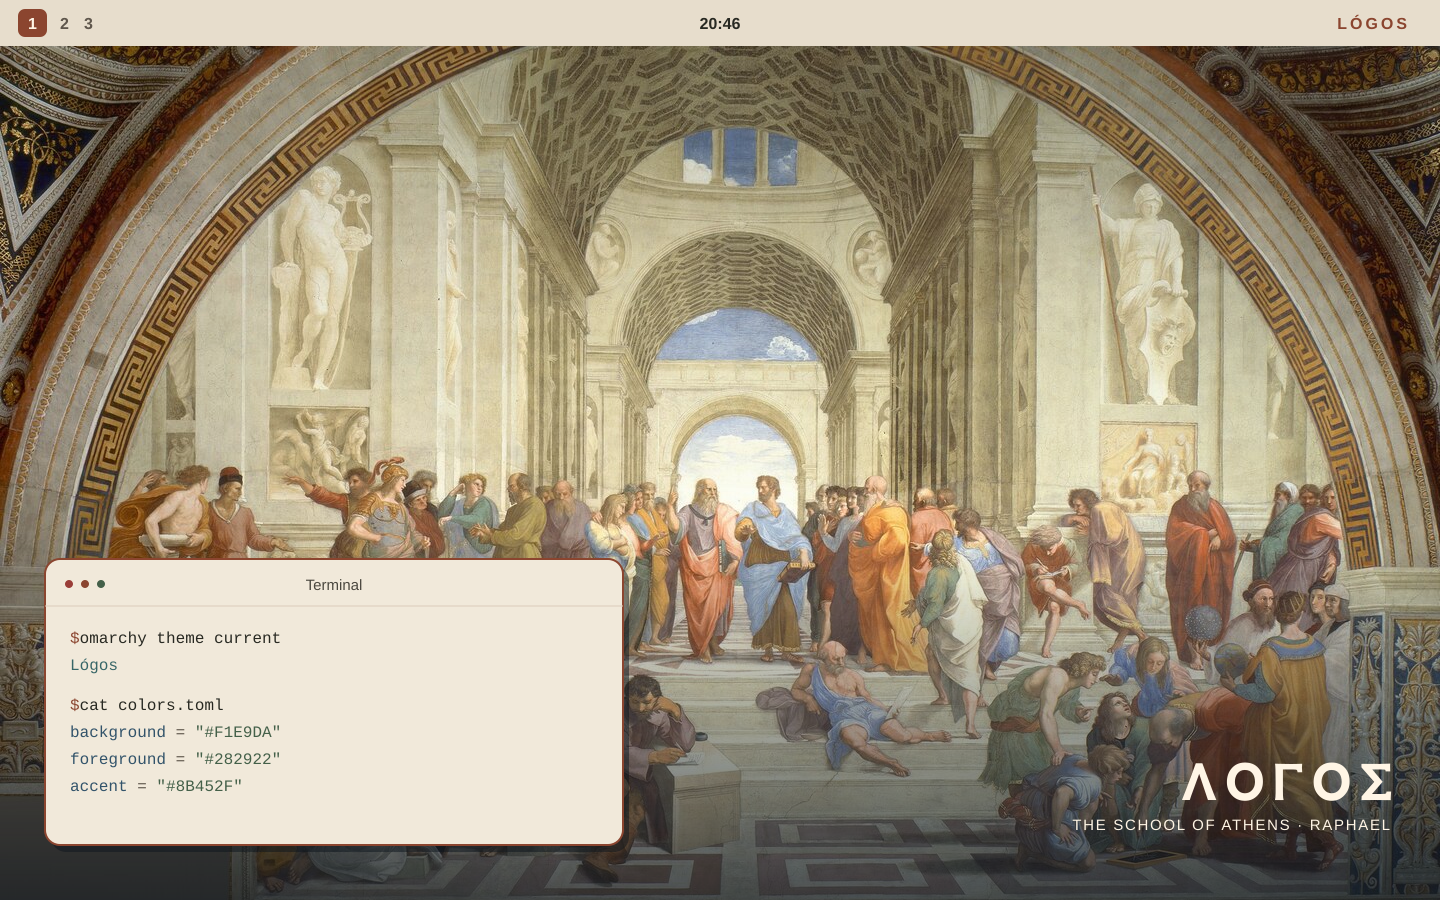
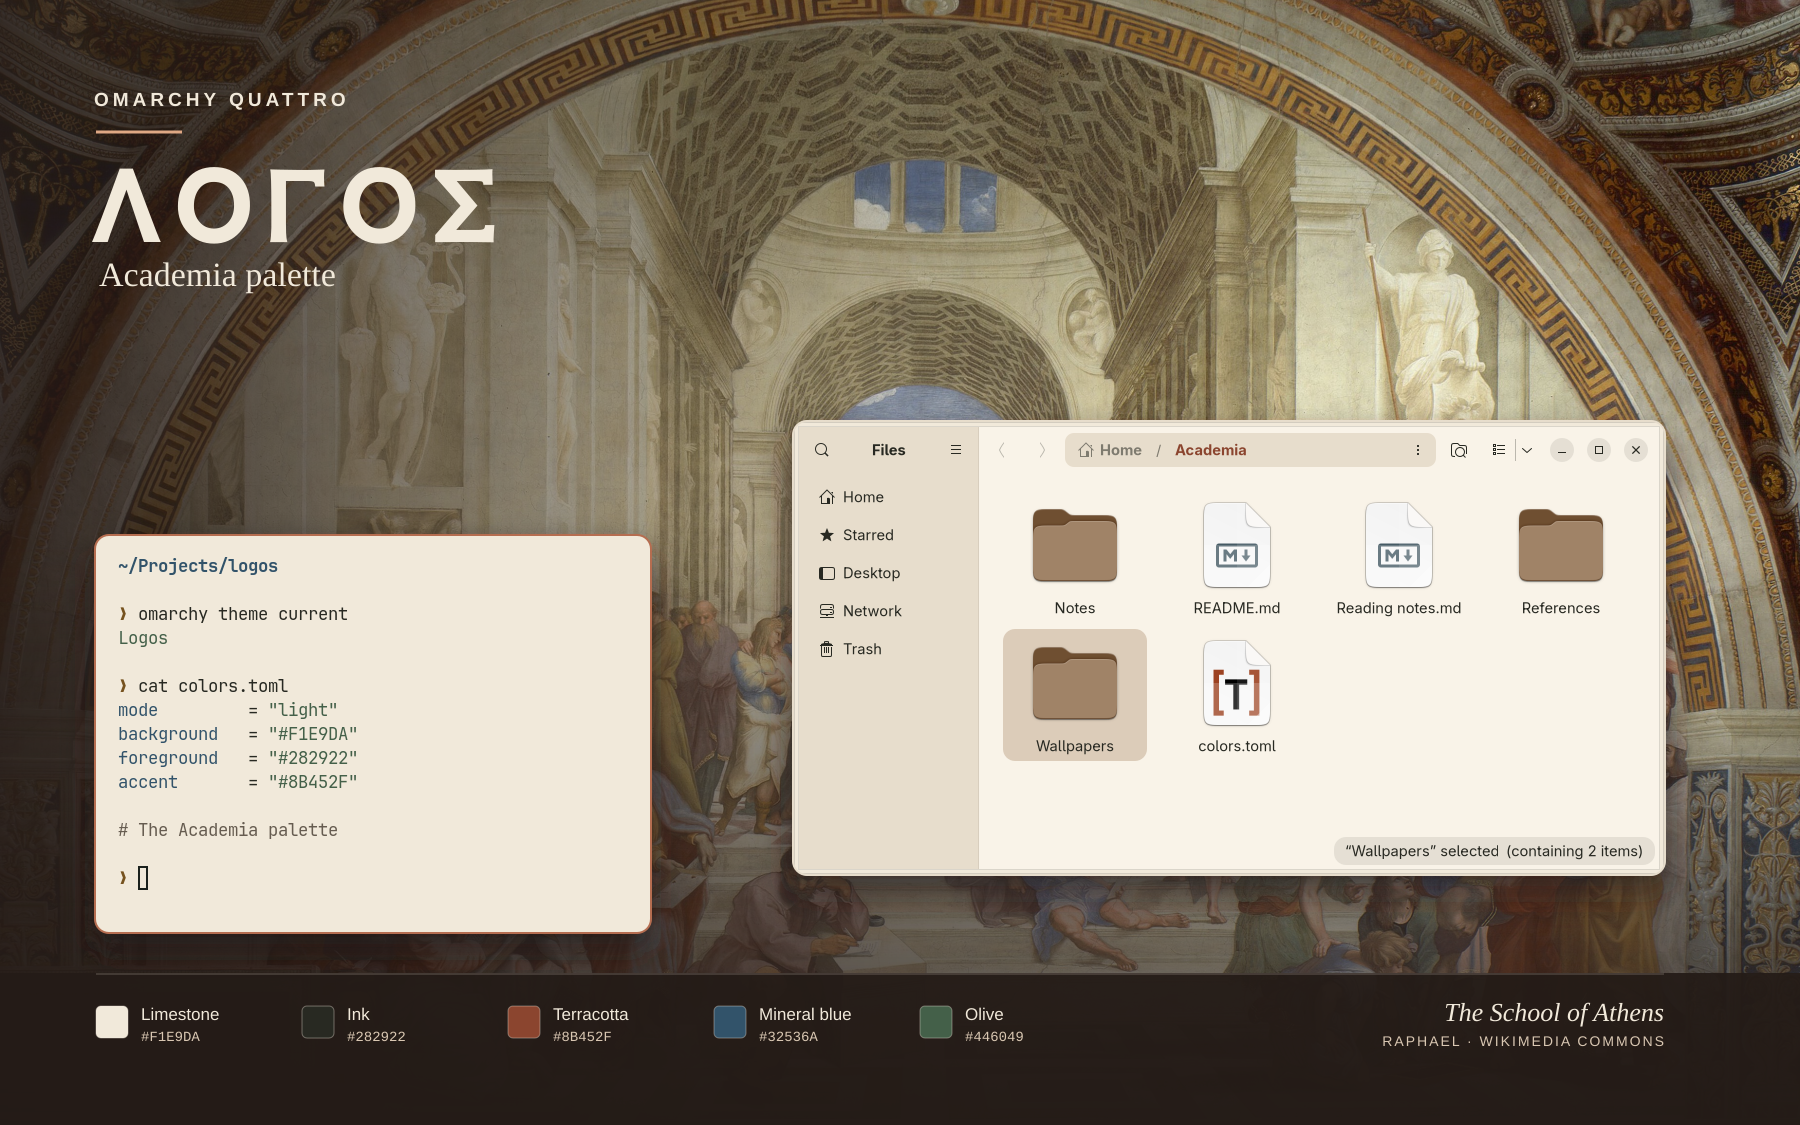
Refine the Academia palette and style Nautilus

diff --git a/nautilus.css b/nautilus.css
@@ -1,0 +1,50 @@
+/* Academia surfaces for Nautilus. Keep these in sync with colors.toml. */
+window.nautilus-window {
+  --logos-limestone: #F1E9DA;
+  --logos-sidebar: #E7DDCC;
+  --logos-paper: #F9F3E8;
+  --logos-ink: #282922;
+  --logos-terracotta: #8B452F;
+  --logos-selection: #DCCCB9;
+
+  --window-bg-color: var(--logos-limestone);
+  --window-fg-color: var(--logos-ink);
+  --view-bg-color: var(--logos-paper);
+  --view-fg-color: var(--logos-ink);
+  --headerbar-bg-color: var(--logos-limestone);
+  --headerbar-fg-color: var(--logos-ink);
+  --headerbar-backdrop-color: var(--logos-limestone);
+  --headerbar-border-color: var(--logos-ink);
+  --sidebar-bg-color: var(--logos-sidebar);
+  --sidebar-fg-color: var(--logos-ink);
+  --sidebar-backdrop-color: var(--logos-sidebar);
+  --secondary-sidebar-bg-color: var(--logos-sidebar);
+  --secondary-sidebar-fg-color: var(--logos-ink);
+  --secondary-sidebar-backdrop-color: var(--logos-sidebar);
+  --card-bg-color: var(--logos-paper);
+  --card-fg-color: var(--logos-ink);
+  --popover-bg-color: var(--logos-paper);
+  --popover-fg-color: var(--logos-ink);
+  --dialog-bg-color: var(--logos-limestone);
+  --dialog-fg-color: var(--logos-ink);
+  --accent-bg-color: var(--logos-terracotta);
+  --accent-color: var(--logos-terracotta);
+  --accent-fg-color: var(--logos-paper);
+  --destructive-color: #9A3D37;
+  --success-color: #446049;
+  --warning-color: #76521E;
+}
+
+window.nautilus-window .nautilus-pathbar {
+  background-color: var(--logos-sidebar);
+}
+
+window.nautilus-window .nautilus-path-button.current-dir {
+  color: var(--logos-terracotta);
+}
+
+window.nautilus-window .nautilus-list-view listview > row:selected,
+window.nautilus-window .nautilus-grid-view gridview > child:selected {
+  background-color: var(--logos-selection);
+  color: var(--logos-ink);
+}

diff --git a/DESIGN.md b/DESIGN.md
@@ -1,0 +1,61 @@
+# Lógos design review
+
+Lógos uses the Academia palette as a hierarchy of materials. Limestone anchors
+the desktop. The deeper stone shade groups navigation, and warm paper marks
+areas where the user reads or works. Ink carries text. Terracotta identifies
+the current location and active controls, while mineral blue and olive separate
+commands and values in the terminal.
+
+## Palette and surfaces
+
+| Role | Color | Main uses |
+| --- | --- | --- |
+| Limestone | `#F1E9DA` | Terminal background, shell and window base |
+| Stone | `#E7DDCC` | Files sidebar and breadcrumb surface |
+| Warm paper | `#F9F3E8` | File canvas, cards, menus |
+| Ink | `#282922` | Primary text and icons |
+| Secondary ink | `#5D5549` | Muted terminal text |
+| Terracotta | `#8B452F` | Active location, controls, focus color |
+| Sand | `#DCCCB9` | File and terminal selections |
+| Mineral blue | `#32536A` | Terminal blue and commands |
+| Olive | `#446049` | Terminal green, values and success |
+
+## Interface details
+
+- **Files** uses a stone sidebar and a lighter file canvas to separate
+  navigation from content. The breadcrumb names the current folder in
+  terracotta. Selected files use a sand fill with ink text. Yaru Warty Brown
+  ties the folder icons to the warm palette. Nautilus retains its own layout,
+  controls, and keyboard interactions.
+- **Terminal** keeps the limestone background and distinct ANSI hues for
+  warnings, errors, success, links, and syntax. Secondary ink was deepened so
+  small text remains readable against both the base and selection.
+- **Shell and window borders** use Omarchy's templates from `colors.toml`.
+  Terracotta marks the active window and controls. Neutral surfaces leave
+  room for the artwork.
+- **Typography and artwork** use GFS Neohellenic Bold for the Greek wordmark in
+  the preview. The desktop typography follows the user's existing settings.
+  Both original artworks are available as wallpapers.
+
+The Files stylesheet scopes Adwaita's CSS variables to Nautilus windows.
+See the [libadwaita CSS variable reference](https://gnome.pages.gitlab.gnome.org/libadwaita/doc/main/css-variables.html).
+When adjusting the palette, update the corresponding values in
+`nautilus.css` alongside `colors.toml`.
+
+## Contrast checks
+
+These are sRGB contrast ratios for solid colors, rounded to one decimal. They
+describe the palette pairings used in the theme.
+
+| Pair | Ratio |
+| --- | ---: |
+| Ink on limestone | 12.2:1 |
+| Ink on warm paper | 13.3:1 |
+| Ink on sand selection | 9.4:1 |
+| Terracotta on warm paper | 6.4:1 |
+| Terracotta on stone | 5.2:1 |
+| Secondary ink on limestone | 6.1:1 |
+| Secondary ink on sand selection | 4.7:1 |
+
+The twelve normal and bright ANSI hues have a minimum contrast ratio of
+5.0:1 on limestone.

diff --git a/README.md b/README.md
@@ -1,23 +1,54 @@
 # Lógos
 
-A light theme for Omarchy Quattro with the Academia palette. Limestone is
-paired with dark ink, terracotta, mineral blue, and olive. The name refers
-to the lógos, the reason that orders the cosmos in Stoic philosophy.
+A light theme for Omarchy Quattro inspired by Greek philosophy and the painted
+architecture of Raphael's *School of Athens*. The Academia palette pairs
+limestone and warm paper with ink, terracotta, mineral blue, and olive.
+
+![Lógos with the Academia palette applied to Alacritty and Nautilus](preview.png)
+
+The preview combines real Alacritty and Nautilus captures from an isolated
+session with a sample folder and Raphael's fresco.
 
 ## Installation
 
-Copy the `logos` directory to `~/.config/omarchy/themes/` and run
-`omarchy theme set logos`. Use `omarchy theme bg next` to cycle through
-the two wallpapers.
+Copy the theme folder to `~/.config/omarchy/themes/logos/`, then run:
 
-## Typography
+```sh
+omarchy theme set logos
+```
 
-The **ΛΟΓΟΣ** wordmark in the preview uses **GFS Neohellenic Bold** by the
-Greek Font Society. The [font](fonts/GFSNeohellenicBold.ttf) is included
-under the [SIL Open Font License 1.1](fonts/OFL.txt). Omarchy manages the
-interface font separately.
+Omarchy uses the palette for the shell, window borders, terminal, and other
+supported apps. Use `omarchy theme bg next` to switch between the two wallpapers.
 
-## References
+### Nautilus (GNOME Files)
+
+The theme includes a separate GTK 4 stylesheet for Nautilus. From the Lógos
+repository, register the theme hook and reapply the theme:
+
+```sh
+omarchy hook install theme-set ./hooks/logos-nautilus
+omarchy theme set logos
+```
+
+Quit and reopen Files if it was running. The hook activates the stylesheet when
+Lógos is selected and clears it on other themes. It adds one import to the GTK 4
+user stylesheet and preserves existing CSS. The theme selects the
+`Yaru-wartybrown` icon set included with Omarchy.
+
+To remove the integration, delete the `logos-nautilus` hook from
+`~/.config/omarchy/hooks/theme-set.d/`, remove the
+`@import url("logos-nautilus.css");` line from the GTK 4 user stylesheet, and
+remove its sibling `logos-nautilus.css`. Reopen Files to reload its styles.
+
+## Design
+
+See the [palette, surface mapping, and contrast review](DESIGN.md). The **ΛΟΓΟΣ**
+wordmark in the preview uses **GFS Neohellenic Bold** by the Greek Font Society.
+The [font](fonts/GFSNeohellenicBold.ttf) is included under the
+[SIL Open Font License 1.1](fonts/OFL.txt). Interface and terminal fonts follow
+the user's Omarchy settings.
+
+## Artwork and inspiration
 
 - [Pathos by Haflier](https://github.com/Haflier/omarchy-pathos-theme),
   inspiration for a desktop theme about philosophy.
